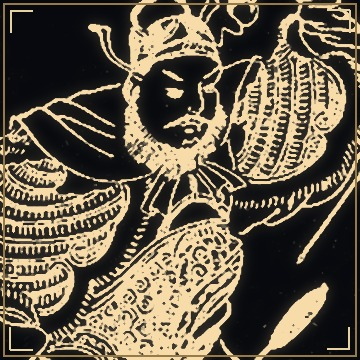
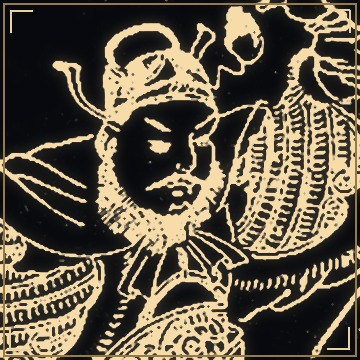
頭像：改用臉部偵測裁切＋墨線金框，缺圖者用勢力圖章

diff --git a/tools/fetch-candidates.py b/tools/fetch-candidates.py
@@ -1,0 +1,93 @@
+#!/usr/bin/env python3
+"""從 Wikimedia Commons 找武將頭像候選，套用墨金風格後排成一張對照表。
+   用法：python3 tools/fetch-candidates.py
+   產出：/tmp/cand-sheet.png（每列一位武將，每欄一個候選）
+"""
+import json, os, subprocess, urllib.parse
+from PIL import Image, ImageDraw, ImageFont
+
+BASE = os.path.dirname(os.path.dirname(os.path.abspath(__file__)))
+OUT = '/tmp/cand'
+os.makedirs(OUT, exist_ok=True)
+UA = 'Mozilla/5.0 (Macintosh; Intel Mac OS X 10_15_7) AppleWebKit/537.36 Chrome/120 Safari/537.36'
+
+WANT = {
+    '周瑜': ['Zhou Yu', '周瑜'],
+    '馬超': ['Ma Chao', '馬超'],
+    '陸遜': ['Lu Xun general', '陸遜'],
+    '徐晃': ['Xu Huang', '徐晃'],
+    '張遼': ['Zhang Liao', '張遼'],
+    '龐德': ['Pang De', '龐德'],
+}
+
+
+def api(params):
+    url = 'https://commons.wikimedia.org/w/api.php?' + urllib.parse.urlencode(params)
+    r = subprocess.run(['curl', '-sSL', '--max-time', '40', '-A', UA, url], capture_output=True)
+    try:
+        return json.loads(r.stdout.decode())
+    except Exception:
+        return {}
+
+
+def search(term, limit=6):
+    d = api({'action': 'query', 'format': 'json', 'formatversion': '2',
+             'generator': 'search', 'gsrsearch': term, 'gsrnamespace': '6',
+             'gsrlimit': str(limit), 'prop': 'imageinfo', 'iiprop': 'url|mime',
+             'iiurlwidth': '700'})
+    out = []
+    for pg in d.get('query', {}).get('pages', []):
+        ii = (pg.get('imageinfo') or [{}])[0]
+        if ii.get('mime') not in ('image/jpeg', 'image/png'):
+            continue
+        u = ii.get('thumburl') or ii.get('url')
+        if u:
+            out.append((pg.get('title', ''), u))
+    return out
+
+
+def main():
+    rows = []
+    for name, terms in WANT.items():
+        got = []
+        for t in terms:
+            for title, url in search(t):
+                if any(g[0] == title for g in got):
+                    continue
+                got.append((title, url))
+                if len(got) >= 4:
+                    break
+            if len(got) >= 4:
+                break
+        files = []
+        for i, (title, url) in enumerate(got):
+            dst = os.path.join(OUT, '%s-%d.jpg' % (name, i))
+            subprocess.run(['curl', '-sSL', '--max-time', '60', '-A', UA, url, '-o', dst])
+            if os.path.exists(dst) and os.path.getsize(dst) > 4000:
+                files.append((dst, title))
+        rows.append((name, files))
+        print(name, len(files), [t for _, t in files])
+
+    # 排成對照表（原始圖，先看內容再決定要不要套風格）
+    cell = 200
+    cols = max(len(f) for _, f in rows)
+    sheet = Image.new('RGB', (cols * cell, len(rows) * cell), (12, 14, 18))
+    dr = ImageDraw.Draw(sheet)
+    for r, (name, files) in enumerate(rows):
+        for c, (p, title) in enumerate(files):
+            try:
+                im = Image.open(p).convert('RGB')
+                w, h = im.size
+                s = min(w, h)
+                im = im.crop(((w - s) // 2, 0, (w - s) // 2 + s, s)).resize((cell - 8, cell - 8))
+                sheet.paste(im, (c * cell + 4, r * cell + 4))
+            except Exception:
+                pass
+        dr.text((4, r * cell + 4), name, fill=(255, 230, 160))
+    sheet.save('/tmp/cand-sheet.png')
+    json.dump({n: [p for p, _ in f] for n, f in rows}, open('/tmp/cand.json', 'w'))
+    print('對照表 /tmp/cand-sheet.png')
+
+
+if __name__ == '__main__':
+    main()

diff --git a/tools/stylize-portraits.py b/tools/stylize-portraits.py
@@ -54,6 +54,30 @@ def vignette(size, strength=0.9):
     return m
 
 
+FACES = {}
+try:
+    FACES = json.load(open('/tmp/faces.json', encoding='utf-8'))
+except Exception:
+    FACES = {}
+
+
+def crop_face(im, size, face):
+    """以偵測到的臉為中心，擴大到頭肩範圍（Vision 座標原點在左下）"""
+    w, h = im.size
+    fh = face['h']
+    top_n = 1 - face['y'] - face['h']          # 轉成左上原點
+    cx = (face['x'] + face['w'] / 2) * w
+    cy = (top_n + face['h'] / 2) * h
+    side = max(h * fh * 2.0, w * 0.5)
+    left = min(max(0, cx - side / 2), max(0, w - side))
+    top = min(max(0, cy - side * 0.45), max(0, h - side))
+    left, top = int(left), int(top)
+    side = int(min(side, w - left, h - top))
+    if side < 40:
+        return None
+    return im.crop((left, top, left + side, top + side)).resize((size, size), Image.LANCZOS)
+
+
 def crop_head(im, size):
     """線描古畫多為全身：優先取上方 62% 的頭肩區域，並裁成正方形"""
     w, h = im.size
@@ -63,9 +87,10 @@ def crop_head(im, size):
     return im.crop((left, top, left + side, top + side)).resize((size, size), Image.LANCZOS)
 
 
-def stylize(src_path, dst_path):
+def stylize(src_path, dst_path, face=None):
     im = Image.open(src_path).convert('RGB')
-    im = crop_head(im, SIZE)
+    cropped = crop_face(im, SIZE, face) if face else None
+    im = cropped if cropped is not None else crop_head(im, SIZE)
     g = ImageOps.autocontrast(im.convert('L'), cutoff=1)
     g = ImageOps.invert(g)                       # 墨線變亮、紙底變黑
     g = ImageEnhance.Contrast(g).enhance(1.35)
@@ -138,7 +163,12 @@ def main():
             emblem(name, meta.get('kingdom'), dst)
             made_emblem += 1
         elif os.path.exists(src) and os.path.getsize(src) > 5000:
-            stylize(src, dst)
+            faces = FACES.get(name) or []
+            face = None
+            if faces:
+                # 多張臉時取最靠近中央的
+                face = sorted(faces, key=lambda f: abs((f['x'] + f['w'] / 2) - 0.5))[0]
+            stylize(src, dst, face)
             made_photo += 1
         else:
             emblem(name, meta.get('kingdom'), dst)
